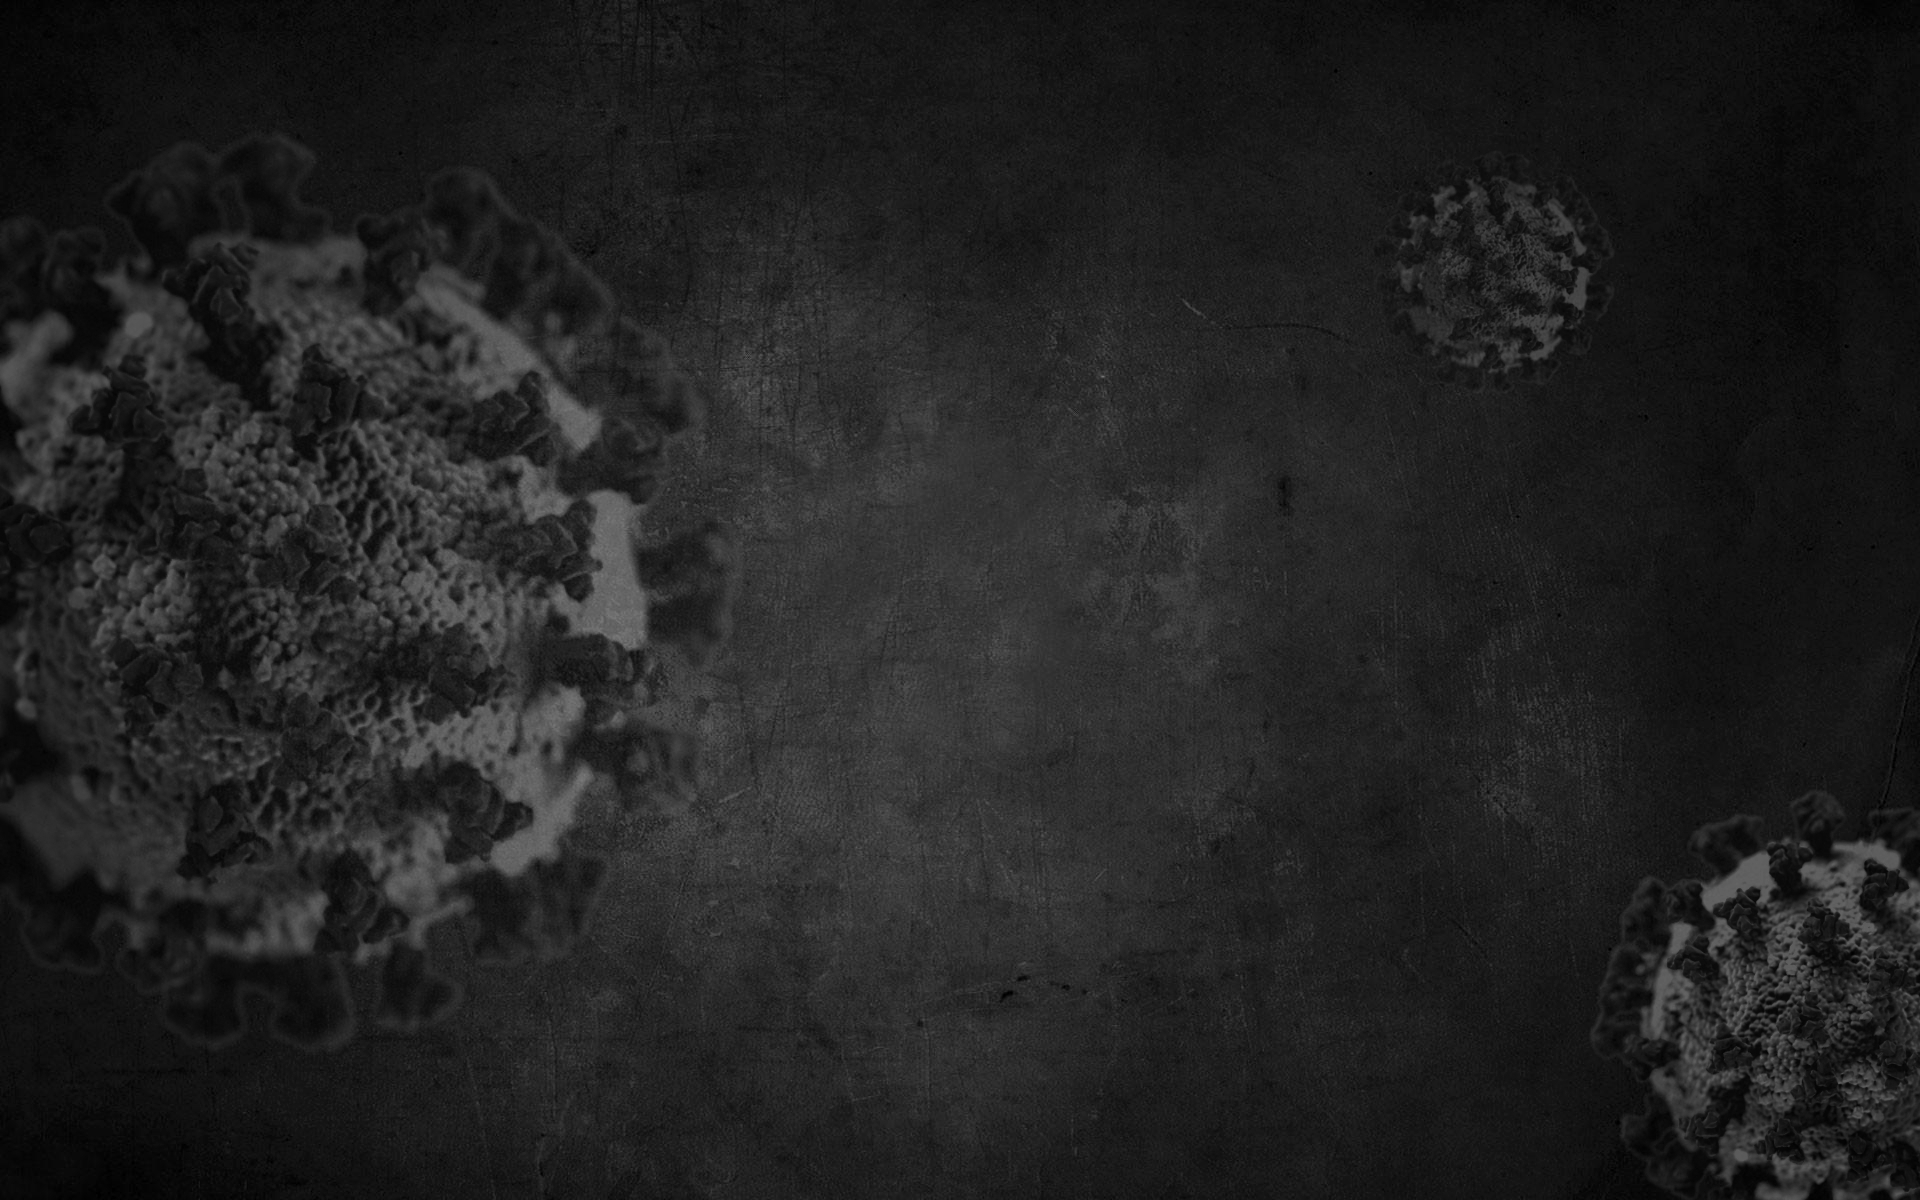
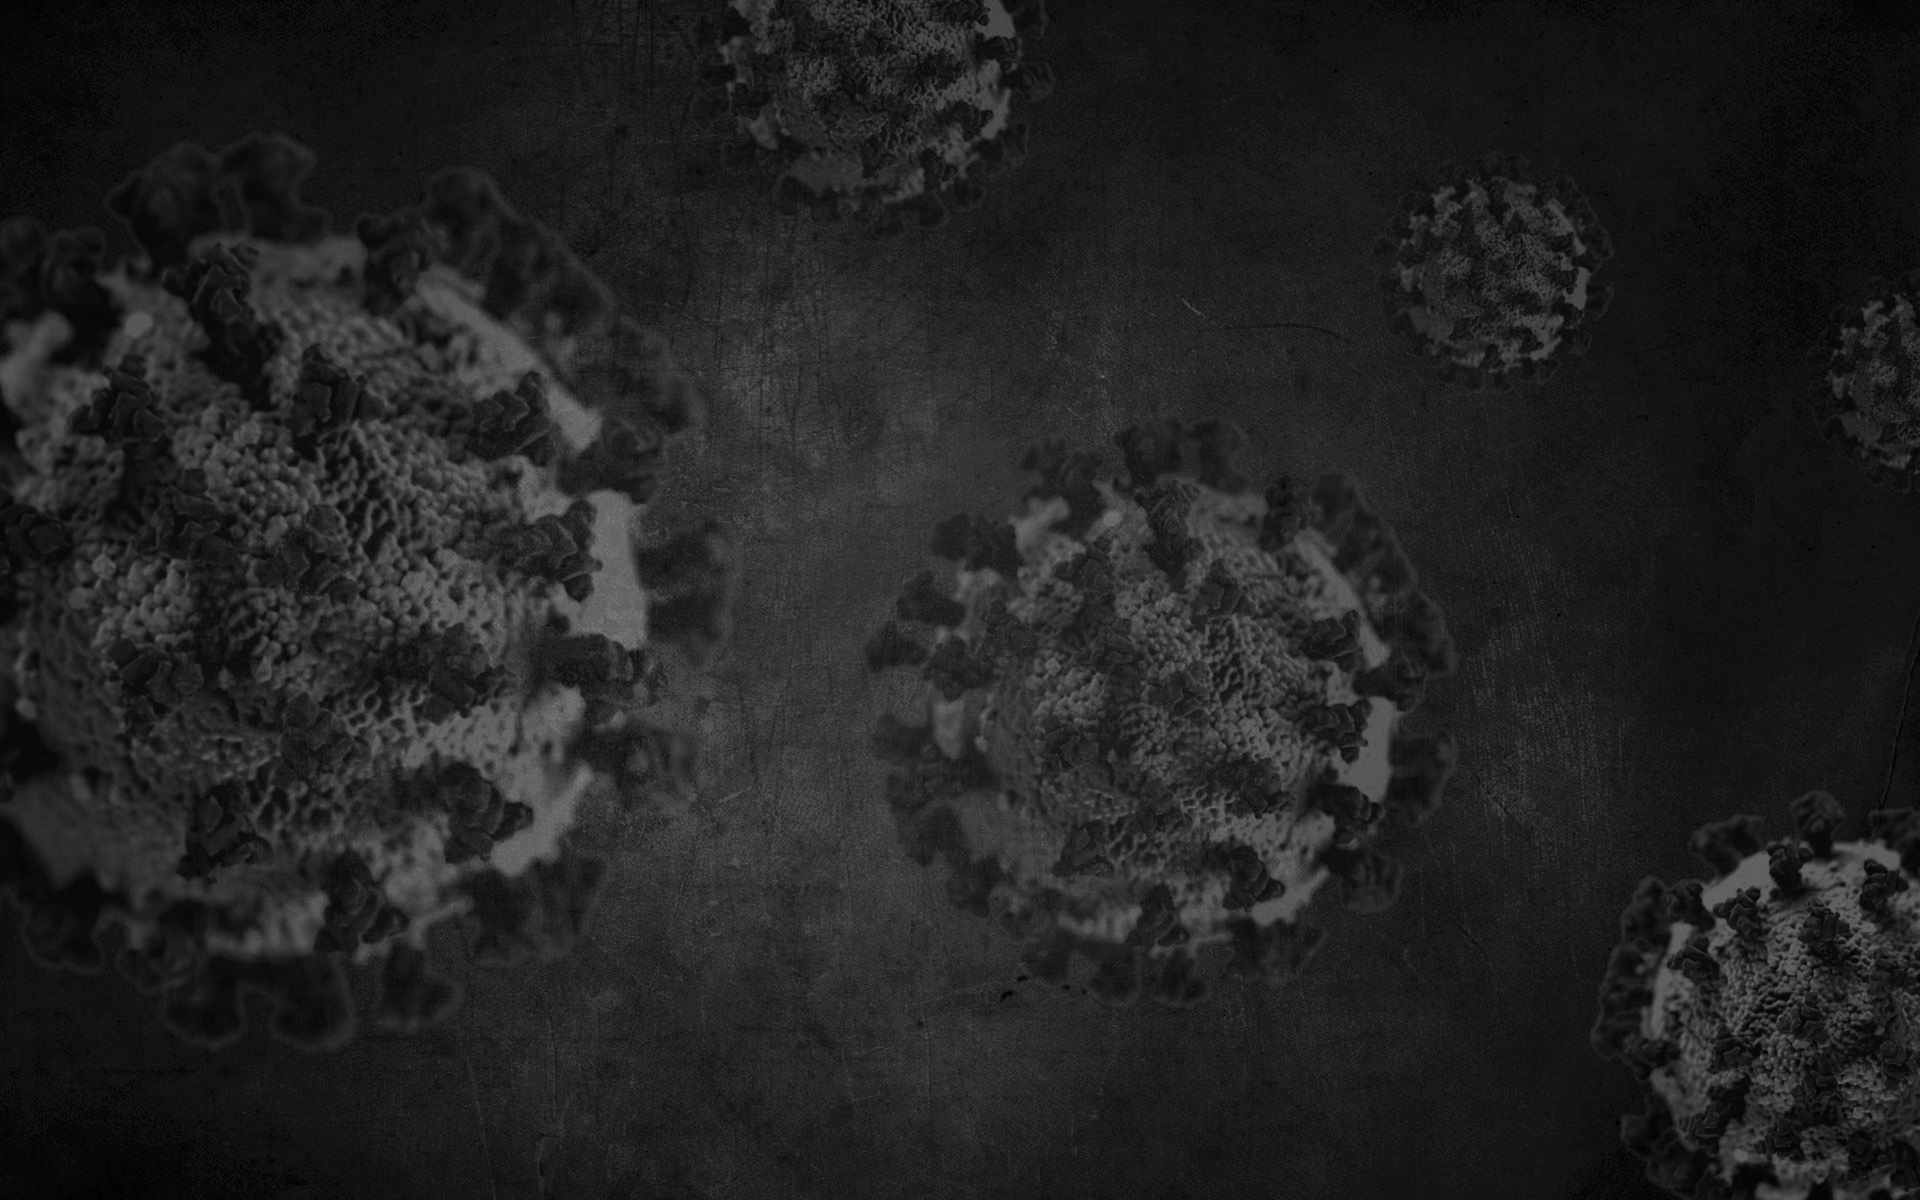
change background picture

diff --git a/style.css b/style.css
@@ -3,8 +3,8 @@ body {
     background-image: url(./assets/covid-wall.jpg);
     background-size: cover;
     background-attachment: fixed;
-    background-position: center;
-    margin: 0;
+    background-position: center center;
+    /* margin: 0; */
     font-family: 'Fira Sans', sans-serif;
 }
 
